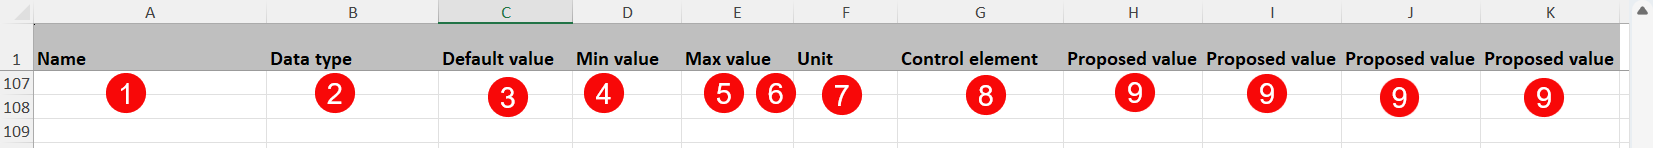
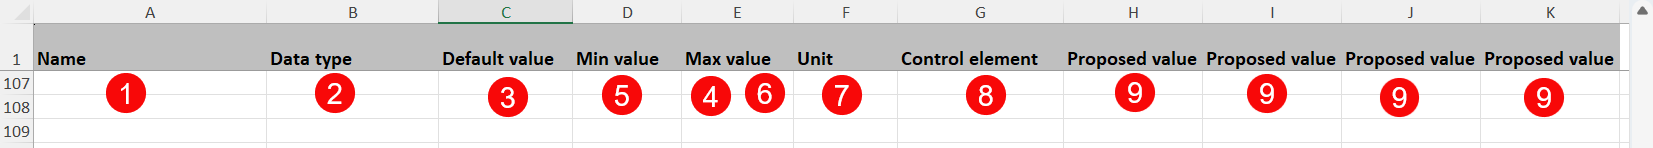
add additional images and finish description

Changed region(s): [[0.3394, 0.4865, 0.4936, 0.7838]]

diff --git a/README.md b/README.md
@@ -3,7 +3,7 @@
 With this PythonPart it is possible to fullfill the complete workflow related to attribute and information managemenet. It mainly contains **3 individual steps** that can be executed more or less automatically:
 - **define** attributes
 - **assign** attributes to dedicated objects
-- **create** a **mapping table** for the Ifc export
+- **create** a **mapping table** for the IFC export
 
 An **Excel file** with a predefined schema serves as bais for each of them that is also delivered and installed as essential component of the PythonPart.
 
@@ -47,4 +47,46 @@ to enter the parameters for the **creation of attributes** with a syntax similar
 &nbsp;&nbsp;&nbsp;&nbsp;&nbsp;&nbsp;&nbsp;&nbsp;<img src = "./docs/AttribDef_Allplan.png" width = 500/> <br><br>
 <img src = "./docs/AttribDef_Table.png" width = 800/>
 
+> ⚠IMPORTANT\
+In the current state of the PythonPart the Control element formula is not yet supported
 
+### Assignment
+
+serves to define combinations of a **filter/select statemen** together with **pairs of attributes** that are assigned to all objects that fulfill the select criteria. Similar to the ALLPLAN functionality **Filter by Attribute** it is a combination of an attribute and its value. Thereby the relevant attribute is defined when running the PythonPart, whereas its required value is entered in the **ident_value** column. Each pair of attributes that should be assigned to the filtered objects consists of the **attribute name** and if applicable a **value** and are entered in the columns named accordingly. If no value is entered only the attribute itself is assigned and its value stays empty
+
+&nbsp;&nbsp;&nbsp;&nbsp;&nbsp;&nbsp;&nbsp;&nbsp;<img src = "./docs/Filter_Allplan.png" width = 500/> <br><br>
+<img src = "./docs/Filter_Table.png" width = 700/>
+
+### Matrix
+
+can be used in addition or as an alternative if only attribute assignement without values is needed. The **filter/select statemen** is also defined in the **ident_value** column here, whereas the attributes to be assigned are selected in entering an **X** in the column with the corresponding **attribute name**
+
+<img src = "./docs/Matrix_Table.png" width = 400/>
+
+Which of the sheets **Assignment** or **Matrix** should be taken into account is decided during the execution of the PythonPart
+
+### Mapping
+
+is used to define a **mapping table (*.cfg)** that can be used during the IFC export to control the attribute transfer. The structure in the sheet is almost identical to the one in the ALLPLAN dialog
+
+&nbsp;&nbsp;&nbsp;&nbsp;&nbsp;&nbsp;&nbsp;&nbsp;<img src = "./docs/Mapping_Allplan.png" width = 400/> <br><br>
+<img src = "./docs/Mapping_Table.png" width = 500/>
+
+Only the **IFC Property column** has a special syntax as it can be used in different ways:
+- left empty if the IFC property name should be the same as in ALLPLAN
+- enter a name for the IFC property different from the one in ALLPLAN
+- enter an **X** to prevent the attribute transfer to IFC
+
+## Workflow
+
+Once installed, all ALLPLAN PythonPart can be found in the **Library palette**, no matter if an additional ActionBar entry is created or not. They are generally started either with a **double-click** on the icon or per **Drag and Drop** into the viewport. This shows the corresponding Properties palette and executes the underlying skripts
+
+As the workflow as such and the Excel schema table, also the palette is structured in the 3 steps
+- Definition
+- Assignment
+- Mapping
+
+each represented in an individual section. The general upper part is relevant for all steps and serves to **select and open** the **Excel table** and **sheet** and the **path and name** to **save** the **mapping table**. Independend of the intended function the first step is always the Excel file selection, otherwise none of them can be executed.
+For the attribute assignment also the relevant **identifier** attribute that holds the **ident_value** has to be determined. This is done in selectin it from the attribute dialog that is shown in clicking the corresponding button
+
+All steps of the workflow can be executed independent and mainly the assignement repetaed sequential with different specifications and identifiers
